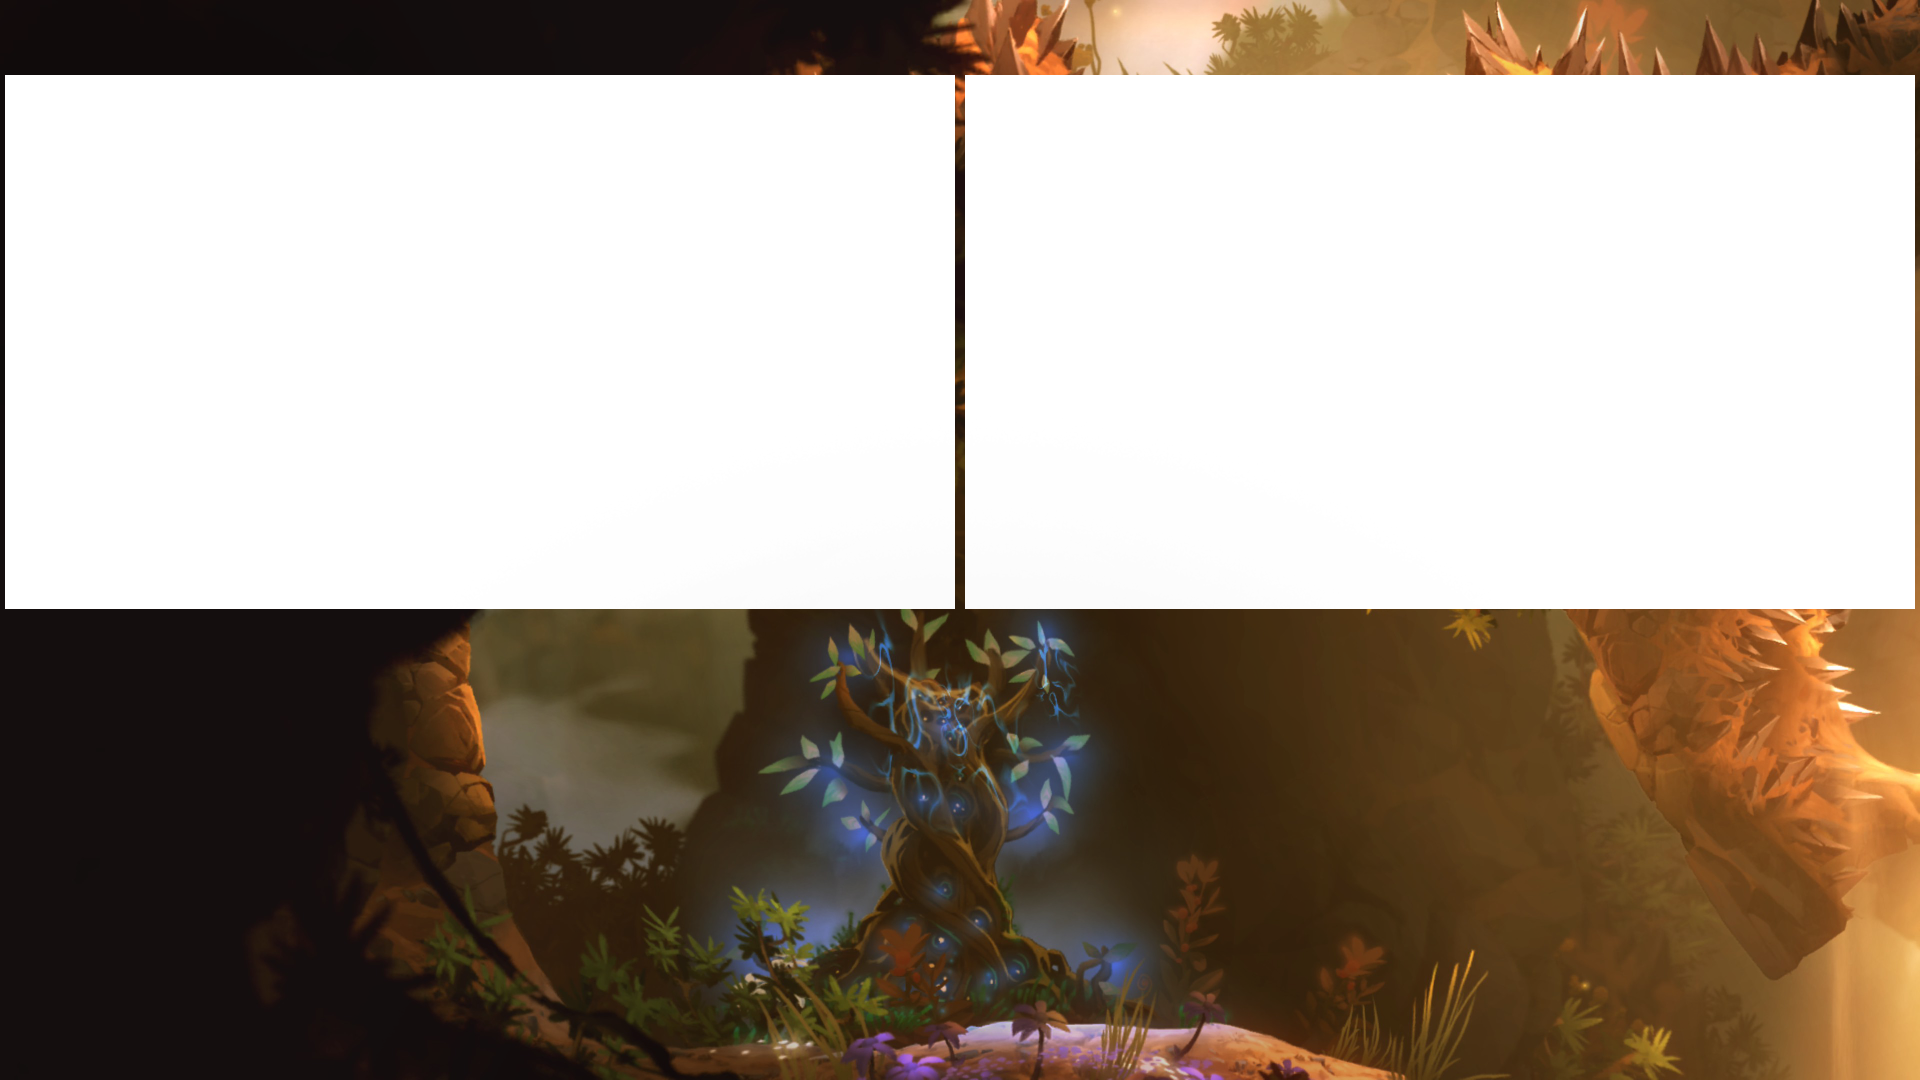
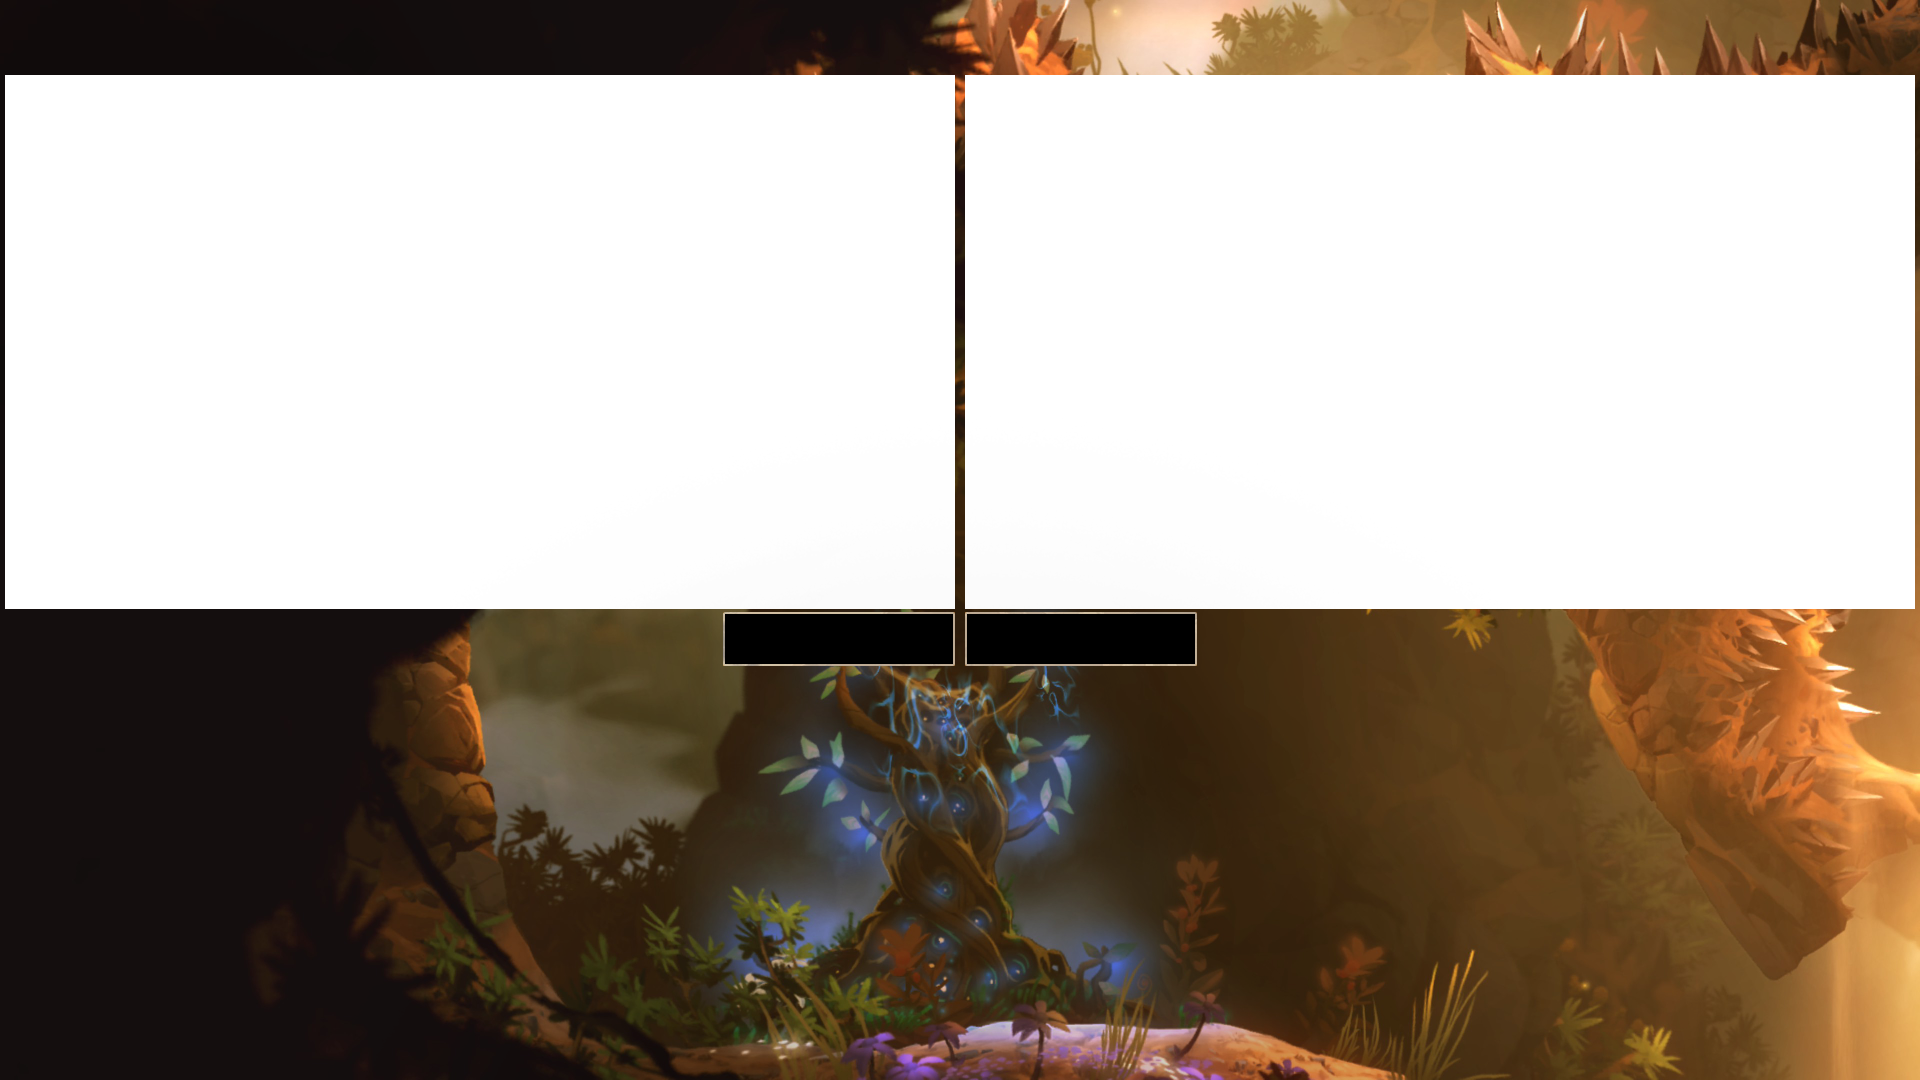
Add Bo5

Changed region(s): [[0.375, 0.55, 0.625, 0.6417]]

diff --git a/src/app/stream/stream.html b/src/app/stream/stream.html
@@ -47,21 +47,27 @@
     <div *ngIf="vm.bestOf >= 3" class="win-count-container">
         <div class="win-count-p1">
             <span *ngFor="let match of vm.currentSeries; let i = index">
-                <img *ngIf="match.winner !== 1 && i < 2 && p1WinCount !== 2" src="../../assets/bo3;5-indicatorRing.png">
+                <img *ngIf="vm.bestOf == 3 && match.winner !== 1 && i < 2 && p1WinCount !== 2" src="../../assets/bo3;5-indicatorRing.png">
+            </span>
+            <span *ngFor='let key of p1GamesLeft | numberLoop'>
+                <img *ngIf="vm.bestOf == 5" src="../../assets/bo3;5-indicatorRing.png">
             </span>
             <span *ngFor="let match of vm.currentSeries">
                 <img *ngIf="match.winner === 1 || (i === 2 && match.winner === 1) " src="../../assets/win-icon.png">
             </span>
         </div>
         <div class="match-type">
-            <span *ngIf="vm.bestOf == 3">Best of 3</span>
+            <span *ngIf="vm.bestOf >= 3">Best of {{ vm.bestOf }}</span>
         </div>
         <div class="win-count-p2">
             <span *ngFor="let match of vm.currentSeries">
                 <img *ngIf="match.winner === 2" src="../../assets/win-icon.png">
             </span>
+            <span *ngFor='let key of p2GamesLeft | numberLoop'>
+                <img *ngIf="vm.bestOf == 5" src="../../assets/bo3;5-indicatorRing.png">
+            </span>
             <span *ngFor="let match of vm.currentSeries; let i = index">
-                <img *ngIf="match.winner !== 2 && i < 2 && p2WinCount !== 2" src="../../assets/bo3;5-indicatorRing.png">
+                <img *ngIf="vm.bestOf == 3 && match.winner !== 2 && i < 2 && p2WinCount !== 2" src="../../assets/bo3;5-indicatorRing.png">
             </span>
         </div>
     </div>

diff --git a/src/app/splash/splash.html b/src/app/splash/splash.html
@@ -29,6 +29,20 @@
                 <span *ngIf="m.winner === 2"><img class="icon" src="../../assets/win-icon-splash.png" /></span>
             </div>
         </div>
+
+        <div class="matchup-results" *ngIf="vm.bestOf == 5">
+            <span class="match-title">Best of 5</span>
+            <div *ngFor="let m of vm.currentSeries; let i = index">
+                <span *ngIf="m.winner === 1"><img class="icon" src="../../assets/win-icon-splash.png" /></span>
+                <span *ngIf="m.winner === 2 || m.winner === 0"><img class="icon" src="../../assets/lose-icon.png" /></span>
+                <span [ngClass]="{ 'winner': (((p1WinCount) + (p2WinCount)) === i) && (p1WinCount !== 2 && p2WinCount !== 2), 
+                                    'played': (((p1WinCount) + (p2WinCount)) > i), 
+                                    'not-playing': (((p1WinCount === 2 && p2WinCount === 0) || (p2WinCount === 2 && p1WinCount === 0)) && i === 2) }">
+                                    Game {{ i + 1 }}</span>
+                <span *ngIf="m.winner === 1 || m.winner === 0"><img class="icon" src="../../assets/lose-icon.png" /></span>
+                <span *ngIf="m.winner === 2"><img class="icon" src="../../assets/win-icon-splash.png" /></span>
+            </div>
+        </div>
     </div>
 
     <div class="matchup" *ngIf="vm.bestOf == 0">

diff --git a/src/app/controls/controls.cmp.ts b/src/app/controls/controls.cmp.ts
@@ -25,6 +25,8 @@ export class ControlsCMP {
 
 		}.bind(this));
 
+		this.resetWinner();
+
 		this.vm.players.sort(function(a, b) {
 			let nameA=a.preferredName.toLowerCase(), nameB = b.preferredName.toLowerCase();
 			if(nameA < nameB)
@@ -81,7 +83,8 @@ export class ControlsCMP {
 
 	resetWinner() {
 		this.vm.soloWinner = 0;
-		this.vm.currentSeries = [{ winner: 0, name: 'Match 1'}, {winner: 0, name: 'Match 2'}, {winner: 0, name: 'Match 3'}];
+		this.vm.currentSeries = this.vm.bestOf == 3 ? [{ winner: 0, name: 'Match 1'}, {winner: 0, name: 'Match 2'}, {winner: 0, name: 'Match 3'}] :
+			[{ winner: 0, name: 'Match 1'}, {winner: 0, name: 'Match 2'}, {winner: 0, name: 'Match 3'}, {winner: 0, name: 'Match 4'}, {winner: 0, name: 'Match 5'}];
 		this.vm.player1_winCount = 0;
 		this.vm.player2_winCount = 0;
 		this.p1_wins = 0;
@@ -268,6 +271,7 @@ public set seed(seed: string){
 
 	public set bestOf(bestOf: number){
 		this._vm.bestOf = bestOf;
+		this.resetWinner();
 	}
 
 	public get p1_seed(): string {
@@ -367,6 +371,10 @@ public set seed(seed: string){
 	{
 		name: 'Best of 3',
 		value: 3
+	},
+	{
+		name: 'Best of 5',
+		value: 5
 	}];
 
 	tournaments = [{

diff --git a/src/app/stream/stream.cmp.ts b/src/app/stream/stream.cmp.ts
@@ -56,6 +56,19 @@ export class StreamCMP extends BaseCMP {
 		this.p2ThirdWin = this.vm.player2_winCount >= 3;
 		this.player1 = this.getPlayerById(this.vm.player1Id);
 		this.player2 = this.getPlayerById(this.vm.player2Id);
+
+		this.p1WinCount = this.vm.player1_winCount;
+		this.p2WinCount = this.vm.player2_winCount;
+
+		this.vm.currentSeries.forEach(function(m) {
+			if(m.winner == 1)
+				this.p1WinCount++;
+			if(m.winner == 2)
+				this.p2WinCount++;
+		}.bind(this));
+
+		this.p1GamesLeft = (3 - this.p1WinCount);
+		this.p2GamesLeft = (3 - this.p2WinCount);
 	}
 
 	p1First: boolean;
@@ -71,4 +84,10 @@ export class StreamCMP extends BaseCMP {
 	p2FirstWin: boolean;
 	p2SecondWin: boolean;
 	p2ThirdWin: boolean;
+
+	p1WinCount: number;
+	p2WinCount: number;
+
+	p1GamesLeft: number;
+	p2GamesLeft: number;
 }

diff --git a/src/app/services/information.ts b/src/app/services/information.ts
@@ -17,7 +17,7 @@ export class Information {
     groupName: string = 'Qualifier/Round of 32/Round of 16/Quarterfinal/Semifinal/Final';
 	matchType: string = this.groupName;
     zoomBracket: boolean = false;
-    bestOf: number = 1;
+    bestOf: number = 5;
 	tournament: number = 1;
 	bracket: string = "Singles (Left)";
     randomizer: boolean = false;
@@ -26,7 +26,7 @@ export class Information {
 
 	soloWinner: number = 0;
 
-	currentSeries: Array<any> = [{ winner: 0, name: 'Match 1'}, {winner: 0, name: 'Match 2'}, {winner: 0, name: 'Match 3'}];
+	currentSeries: Array<any> = [];
 
     players: Array<any> = [
 		{

diff --git a/src/app/app.module.ts b/src/app/app.module.ts
@@ -16,6 +16,8 @@ import { CreditsCMP } from './credits/credits.cmp';
 import { IntermissionCMP } from './intermission/intermission.cmp';
 import { DivisionComponent } from './division/division.component';
 
+import { NumberLoop } from './pipes/number-loop';
+
 const appRoutes: Routes = [
   { path: 'dashboard', component: DashboardCMP },
   { path: 'stream', component: StreamCMP },
@@ -43,7 +45,8 @@ const appRoutes: Routes = [
     StatsCMP,
     CreditsCMP,
     IntermissionCMP,
-    DivisionComponent
+    DivisionComponent,
+    NumberLoop
   ],
   imports: [
     BrowserModule,

diff --git a/src/app/splash/splash.css b/src/app/splash/splash.css
@@ -24,14 +24,14 @@
 }
 
 .matchup-results {
-    margin-top: 150px;
-    font-size: 40px;
+    margin-top: 130px;
+    font-size: 34px;
     width: 300px;
     margin-left: 800px;
 }
 
 .matchup-results > div {
-    font-size: 40px;
+    font-size: 32px;
     margin-top: 20px;
 }
 
@@ -100,4 +100,8 @@
 
 .players {
     font-size: 54px;
+}
+
+.bo5-splash {
+    font-size: 10px;
 }

diff --git a/src/app/pipes/number-loop.ts b/src/app/pipes/number-loop.ts
@@ -1,0 +1,12 @@
+import {Pipe, PipeTransform} from '@angular/core';
+
+@Pipe({name: 'numberLoop'})
+export class NumberLoop implements PipeTransform {
+  transform(value, args:string[]) : any {
+    let res = [];
+    for (let i = 0; i < value; i++) {
+        res.push(i);
+      }
+      return res;
+  }
+}

diff --git a/src/app/credits/credits.html b/src/app/credits/credits.html
@@ -1,6 +1,6 @@
 <div class="lower-third">
 	<div class="next-match">
-		<!-- <div class="label">Next Match:</div>
+		<!-- <div class="label">Next Match (test):</div>
 		<div class="next-match-runners">{{ p1 }} vs. {{ p2 }} - {{ date }} {{ timezone }} - {{ channel }}</div> -->
 	</div>
 </div>

diff --git a/src/app/controls/controls.html b/src/app/controls/controls.html
@@ -89,7 +89,7 @@
 				PLAYER 2
 			</div>
 
-			<div *ngIf="vm.bestOf == 3" class="col-4 center label players r8 c3">
+			<div *ngIf="vm.bestOf >= 3" class="col-4 center label players r8 c3">
 				<span><b>Match Winners</b></span>
 				<div>
 					(P1) () (P2)

diff --git a/src/app/stream/stream.css b/src/app/stream/stream.css
@@ -338,10 +338,9 @@
 }
 
 .win-count-container {
-	position: absolute;
+	position: relative;
 	text-align: center;
-	top: 0;
-	left: 710px;
+	top: -660px;
 }
 
 .win-count-p1, .win-count-p2 {
